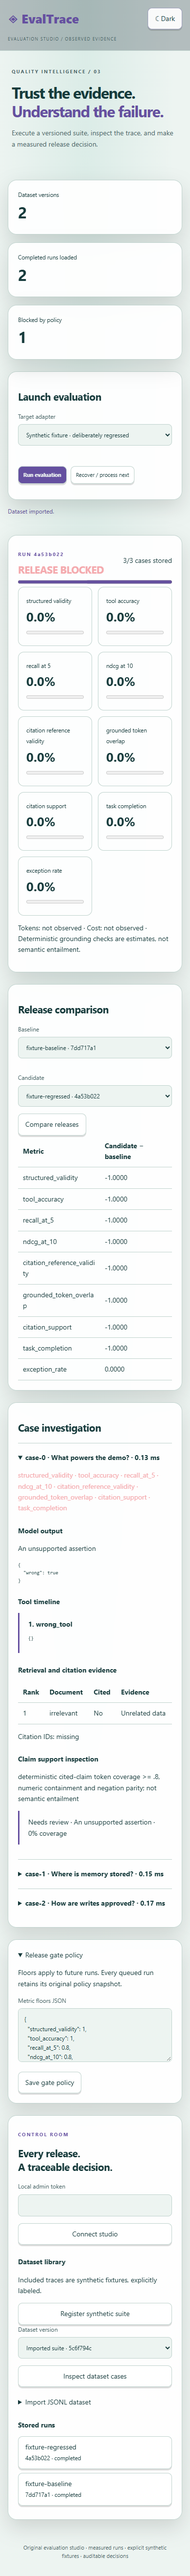
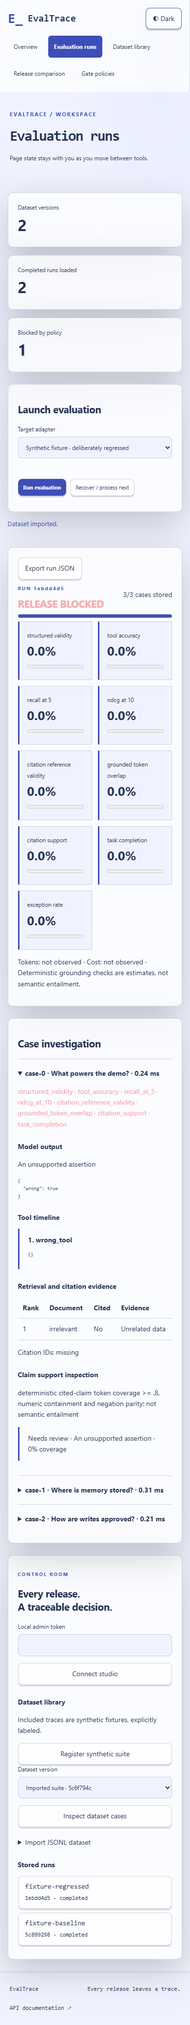
Phase 3: create EvalTrace control room with dedicated evaluation pages

Changed region(s): [[0.0, 0.0, 1.0, 0.9959], [0.9538, 0.0622, 0.9846, 0.0934]]

diff --git a/frontend/src/App.tsx b/frontend/src/App.tsx
@@ -1,13 +1,20 @@
-import {useEffect,useRef,useState} from 'react';import {request} from './api';
-type Dataset={id:string;name:string;version:string};
-type CaseResult={case_id:string;prompt:string;elapsed_ms:number;scores:Record<string,number>;failures:string[];trace:{answer:string;structured:unknown;tools:{name:string;arguments:unknown}[];retrieved:{id:string;text:string}[];citations:string[];exception:string|null};grounding?:{method:string;claims:{claim:string;supported:boolean;best_token_coverage:number}[]}};
-type Run={id:string;status:string;target?:string;scores?:Record<string,number>;gate?:{passed:boolean};cases:CaseResult[];completed_cases:number;total_cases:number;dataset_version?:string;tokens?:number|null;cost?:number|null};
-type RunRow={id:string;status:string;target:string;created_at:string;result:Run};type Comparison={delta:Record<string,number>;candidate_gate:{passed:boolean}};
-export default function App(){const [token,setToken]=useState('');const [datasets,setDatasets]=useState<Dataset[]>([]);const [dataset,setDataset]=useState('');const [target,setTarget]=useState('fixture-baseline');const [runs,setRuns]=useState<RunRow[]>([]);const [current,setCurrent]=useState<Run>();const [baseline,setBaseline]=useState('');const [candidate,setCandidate]=useState('');const [comparison,setComparison]=useState<Comparison>();const [policy,setPolicy]=useState('{}');const [name,setName]=useState('Imported suite');const [content,setContent]=useState('');const [preview,setPreview]=useState<unknown>();const [status,setStatus]=useState('Connect to your evaluation studio.');const [error,setError]=useState('');const [busy,setBusy]=useState(false);const [light,setLight]=useState(false);const last=useRef<()=>Promise<void>>(async()=>{});
-async function act(fn:()=>Promise<void>){last.current=fn;setBusy(true);setError('');try{await fn()}catch(e){setError(e instanceof Error?e.message:'Request failed')}finally{setBusy(false)}}
-async function refresh(){const [ds,rs,gates]=await Promise.all([request<Dataset[]>('/datasets',token),request<RunRow[]>('/runs',token),request<Record<string,number>>('/gates',token)]);setDatasets(ds);setRuns(rs);setPolicy(JSON.stringify(gates,null,2));if(!dataset&&ds[0])setDataset(ds[0].id)}
-async function selectRun(id:string){setCurrent(await request<Run>('/runs/'+id,token))}
-useEffect(()=>{document.documentElement.dataset.theme=light?'light':'dark'},[light]);
-useEffect(()=>{if(!current||current.status==='completed')return;const timer=setInterval(()=>{void request<Run>('/runs/'+current.id,token).then(setCurrent).catch(()=>{})},1000);return()=>clearInterval(timer)},[current?.id,current?.status,token]);
-const complete=runs.filter(r=>r.status==='completed');const blocked=complete.filter(r=>!r.result.gate?.passed).length;
-return <><header className="topbar"><a className="brand" href="/">◈ EvalTrace</a><span className="mode">EVALUATION STUDIO / OBSERVED EVIDENCE</span><button aria-label="Change theme" onClick={()=>setLight(!light)}>{light?'☾ Dark':'☀ Light'}</button></header><div className="studio"><aside className="panel"><p className="eyebrow">CONTROL ROOM</p><h2>Every release.<br/>A traceable decision.</h2><label>Local admin token<input id="token" type="password" value={token} onChange={e=>setToken(e.target.value)} autoComplete="off"/></label><button className="wide" onClick={()=>void act(async()=>{await refresh();setStatus('Connected.')})} disabled={busy}>Connect studio</button><h3>Dataset library</h3><p className="source-notice">Included traces are synthetic fixtures, explicitly labeled.</p><button className="wide" onClick={()=>void act(async()=>{const d=await request<Dataset>('/datasets/seed',token,{});await refresh();setDataset(d.id);setStatus('Synthetic suite registered.')})} disabled={busy}>Register synthetic suite</button><label>Dataset version<select value={dataset} onChange={e=>setDataset(e.target.value)}><option value="">Select a suite</option>{datasets.map(d=><option key={d.id} value={d.id}>{d.name} · {d.version.slice(0,8)}</option>)}</select></label><button className="wide" disabled={busy||!dataset} onClick={()=>void act(async()=>{setPreview(await request('/datasets/'+dataset+'/cases',token));setStatus('Dataset version loaded.')})}>Inspect dataset cases</button><details><summary>Import JSONL dataset</summary><label>Suite name<input value={name} onChange={e=>setName(e.target.value)}/></label><label>JSONL cases<textarea value={content} onChange={e=>setContent(e.target.value)} placeholder="One typed case per line"/></label><button disabled={busy||!content} onClick={()=>void act(async()=>{const d=await request<Dataset>('/datasets/import',token,{name,content});await refresh();setDataset(d.id);setStatus('Dataset imported.')})}>Import dataset</button></details><h3>Stored runs</h3><div className="run-list">{runs.map(r=><button key={r.id} onClick={()=>void act(()=>selectRun(r.id))}>{r.target}<br/><small>{r.id.slice(0,8)} · {r.status}</small></button>)}{!runs.length&&<p className="empty">No runs loaded.</p>}</div></aside><main><section className="hero"><p className="eyebrow">QUALITY INTELLIGENCE / 03</p><h1>Trust the evidence.<br/><em>Understand the failure.</em></h1><p>Execute a versioned suite, inspect the trace, and make a measured release decision.</p></section><div className="run-grid"><div className="panel metric"><small>Dataset versions</small><strong>{datasets.length}</strong></div><div className="panel metric"><small>Completed runs loaded</small><strong>{complete.length}</strong></div><div className="panel metric"><small>Blocked by policy</small><strong>{blocked}</strong></div></div><section className="panel"><h2>Launch evaluation</h2><div className="two-col"><label>Target adapter<select value={target} onChange={e=>setTarget(e.target.value)}><option value="fixture-baseline">Synthetic fixture · baseline</option><option value="fixture-regressed">Synthetic fixture · deliberately regressed</option><option value="local-http">Local HTTP target</option><option value="remote-http">Configured HTTPS target</option><option value="provider">Configured LLM provider</option></select></label><div className="actions"><button className="primary" disabled={busy||!dataset} onClick={()=>void act(async()=>{const q=await request<{id:string}>('/runs/queue',token,{dataset_id:dataset,target});await selectRun(q.id);setStatus('Queued durably. Executing worker…');await request('/workers/step',token,{});await selectRun(q.id);await refresh();setStatus('Evaluation stored. Inspect the release gate below.')})}>Run evaluation</button><button disabled={busy} onClick={()=>void act(async()=>{await request('/workers/step',token,{});await refresh();if(current)await selectRun(current.id);setStatus('Worker step completed.')})}>Recover / process next</button></div></div></section><div id="status" className="status" role="status">{busy&&<span className="spinner"/>}{status}</div>{error&&<div role="alert" className="error"><p>{error}</p><button onClick={()=>void act(last.current)}>Retry</button></div>}{current&&<section className="panel section"><div className="section-head"><div><p className="eyebrow">RUN {current.id.slice(0,8)}</p><h2 className={current.gate?.passed?'gate-pass':'gate-block'}>{current.gate?(current.gate.passed?'GATE PASSED':'RELEASE BLOCKED'):current.status.toUpperCase()}</h2></div><span>{current.completed_cases}/{current.total_cases} cases stored</span></div><progress max={current.total_cases||1} value={current.completed_cases}/><div className="score-grid">{Object.entries(current.scores??{}).map(([key,value])=><div className="score" key={key}><small>{key.replaceAll('_',' ')}</small><strong>{(value*100).toFixed(1)}%</strong><meter min={0} max={1} value={value}/></div>)}</div><p className="source-notice">Tokens: {current.tokens??'not observed'} · Cost: {current.cost??'not observed'} · Deterministic grounding checks are estimates, not semantic entailment.</p></section>}<section className="panel section"><h2>Release comparison</h2><div className="two-col"><label>Baseline<select aria-label="Baseline" value={baseline} onChange={e=>setBaseline(e.target.value)}><option value="">Select baseline</option>{complete.map(r=><option key={r.id} value={r.id}>{r.target} · {r.id.slice(0,8)}</option>)}</select></label><label>Candidate<select aria-label="Candidate" value={candidate} onChange={e=>setCandidate(e.target.value)}><option value="">Select candidate</option>{complete.map(r=><option key={r.id} value={r.id}>{r.target} · {r.id.slice(0,8)}</option>)}</select></label></div><button disabled={busy||!baseline||!candidate} onClick={()=>void act(async()=>{setComparison(await request<Comparison>('/compare',token,{baseline,candidate}));setStatus('Comparison stored.')})}>Compare releases</button>{comparison&&<div className="table-wrap" id="comparison"><table><thead><tr><th>Metric</th><th>Candidate − baseline</th></tr></thead><tbody>{Object.entries(comparison.delta).map(([key,value])=><tr key={key}><td>{key}</td><td>{value.toFixed(4)}</td></tr>)}</tbody></table></div>}</section>{current&&<section className="panel section" id="cases"><h2>Case investigation</h2>{current.cases.map(c=><details className="trace-case" key={c.case_id}><summary>{c.case_id} · {c.prompt} · {c.elapsed_ms.toFixed(2)} ms</summary><p className="gate-block">{c.failures?.join(' · ')||'No metric failures'}</p><h3>Model output</h3><p>{c.trace.answer||'No answer'}</p><pre>{JSON.stringify(c.trace.structured,null,2)}</pre>{c.trace.exception&&<p>Exception type: {c.trace.exception}</p>}<h3>Tool timeline</h3>{c.trace.tools.map((t,i)=><div className="evidence" key={i}><strong>{i+1}. {t.name}</strong><pre>{JSON.stringify(t.arguments,null,2)}</pre></div>)}<h3>Retrieval and citation evidence</h3><div className="table-wrap"><table><thead><tr><th>Rank</th><th>Document</th><th>Cited</th><th>Evidence</th></tr></thead><tbody>{c.trace.retrieved.map((d,i)=><tr key={i}><td>{i+1}</td><td>{d.id}</td><td>{c.trace.citations.includes(d.id)?'Yes':'No'}</td><td>{d.text}</td></tr>)}</tbody></table></div><p>Citation IDs: {c.trace.citations.join(', ')||'none'}</p><h3>Claim support inspection</h3><p className="source-notice">{c.grounding?.method}</p>{c.grounding?.claims.map((claim,i)=><p className="evidence" key={i}>{claim.supported?'Supported by heuristic':'Needs review'} · {claim.claim} · {(claim.best_token_coverage*100).toFixed(0)}% coverage</p>)}</details>)}</section>}<section className="panel section"><details><summary>Release gate policy</summary><p>Floors apply to future runs. Every queued run retains its original policy snapshot.</p><label>Metric floors JSON<textarea value={policy} onChange={e=>setPolicy(e.target.value)}/></label><button disabled={busy} onClick={()=>void act(async()=>{await request('/gates',token,JSON.parse(policy),'PUT');setStatus('Gate policy saved.')})}>Save gate policy</button></details></section>{preview!==undefined&&<section className="panel section"><h2>Immutable dataset cases</h2><pre>{JSON.stringify(preview,null,2)}</pre><button onClick={()=>setPreview(undefined)}>Close dataset preview</button></section>}</main></div><footer>Original evaluation studio · measured runs · explicit synthetic fixtures · auditable decisions</footer></>}
+import {useEffect,useState} from 'react';
+import Workspace from './Workspace';
+
+const routes = [['workspace','Evaluation runs'],['datasets','Dataset library'],['compare','Release comparison'],['policy','Gate policies']] as const;
+function route(){return window.location.hash.replace('#/','') || 'home'}
+export default function App(){
+ const [page,setPage]=useState(route);const [opened,setOpened]=useState(page!=='home');
+ const [light,setLight]=useState(localStorage.getItem('EvalTrace-theme')==='light');
+ useEffect(()=>{const change=()=>{const next=route();setPage(next);if(next!=='home')setOpened(true);window.scrollTo(0,0)};window.addEventListener('hashchange',change);return()=>window.removeEventListener('hashchange',change)},[]);
+ useEffect(()=>{document.documentElement.dataset.theme=light?'light':'dark';localStorage.setItem('EvalTrace-theme',light?'light':'dark')},[light,page,opened]);
+ const valid=page==='home'||routes.some(([id])=>id===page);
+ return <div className="experience" data-page={page}>
+ <a className="skip-link" href="#page-content" onClick={e=>{e.preventDefault();document.getElementById("page-content")?.focus()}}>Skip to content</a>
+ <header className="site-nav"><a className="site-brand" href="#/home"><span>E_</span>EvalTrace</a><nav aria-label="Primary navigation"><a href="#/home" aria-current={page==='home'?'page':undefined}>Overview</a>{routes.map(([id,label])=><a key={id} href={'#/'+id} aria-current={page===id?'page':undefined}>{label}</a>)}</nav><button className="theme-switch" aria-label="Change theme" onClick={()=>setLight(!light)}>{light?'◐ Dark':'◑ Light'}</button></header>
+ <div id="page-content" tabIndex={-1}>
+ {page==='home'&&<main className="landing"><section className="landing-hero"><div className="hero-copy"><p className="landing-kicker">Confidence has a paper trail.</p><h1>Before you ship,<br/>see the evidence.</h1><p className="landing-description">A release control room for agent behavior. Version your test cases, inspect every trace and make quality a visible decision.</p><div className="landing-actions"><a className="launch-button" href="#/workspace">Open control room <span>↗</span></a><a className="text-link" href="#how-it-works" onClick={e=>{e.preventDefault();document.getElementById('how-it-works')?.scrollIntoView({behavior:'smooth'})}}>How it works ↓</a></div></div><div className="trace-art" aria-label="Illustration of an evaluation pipeline"><div className="trace-top"><span>RELEASE PIPELINE</span><span>ILLUSTRATION</span></div><div className="trace-line"><b>01</b><span>Dataset contract</span><i>VERSIONED</i></div><div className="trace-line"><b>02</b><span>Observed trace</span><i>RECORDED</i></div><div className="trace-line"><b>03</b><span>Quality decision</span><i>INSPECTABLE</i></div><p>Passing execution ≠ passing quality.</p></div></section><section className="landing-path" id="how-it-works"><div className="section-intro"><p className="landing-kicker">DESIGNED AROUND YOUR WORKFLOW</p><h2>From a test case<br/>to a release decision.</h2></div><div className="journey-grid"><a className="journey-card" href="#/datasets"><span>DATA</span><h3>Define the contract</h3><p>Version typed cases and inspect their evidence.</p><b aria-hidden="true">↗</b></a><a className="journey-card" href="#/workspace"><span>RUN</span><h3>Observe the behavior</h3><p>Execute targets and investigate failed cases.</p><b aria-hidden="true">↗</b></a><a className="journey-card" href="#/compare"><span>GATE</span><h3>Make the release decision</h3><p>Compare candidates against a stored baseline.</p><b aria-hidden="true">↗</b></a></div></section><section className="honest-note"><span>Built on evidence</span><p>Explore working tools, inspect the results, and keep the limits visible. Demo data is labeled. No invented activity or production scores.</p><a href="/docs">Explore the API ↗</a></section></main>}
+ {!valid&&<section className="landing"><h1>Page not found</h1><a href="#/home">Return to overview</a></section>}
+ {opened&&<div className="product-surface" hidden={page==='home'||!valid}><div className="page-heading"><p className="landing-kicker">EvalTrace / WORKSPACE</p><h1>{routes.find(([id])=>id===page)?.[1]}</h1><p>Page state stays with you as you move between tools.</p></div><Workspace/></div>}
+ </div><footer className="site-footer"><a href="#/home">EvalTrace</a><span>Every release leaves a trace.</span><a href="/docs">API documentation ↗</a></footer></div>
+}

diff --git a/frontend/src/Workspace.tsx b/frontend/src/Workspace.tsx
@@ -1,0 +1,13 @@
+import {useEffect,useRef,useState} from 'react';import {request} from './api';
+type Dataset={id:string;name:string;version:string};
+type CaseResult={case_id:string;prompt:string;elapsed_ms:number;scores:Record<string,number>;failures:string[];trace:{answer:string;structured:unknown;tools:{name:string;arguments:unknown}[];retrieved:{id:string;text:string}[];citations:string[];exception:string|null};grounding?:{method:string;claims:{claim:string;supported:boolean;best_token_coverage:number}[]}};
+type Run={id:string;status:string;target?:string;scores?:Record<string,number>;gate?:{passed:boolean};cases:CaseResult[];completed_cases:number;total_cases:number;dataset_version?:string;tokens?:number|null;cost?:number|null};
+type RunRow={id:string;status:string;target:string;created_at:string;result:Run};type Comparison={delta:Record<string,number>;candidate_gate:{passed:boolean}};
+export default function Workspace(){const [token,setToken]=useState('');const [datasets,setDatasets]=useState<Dataset[]>([]);const [dataset,setDataset]=useState('');const [target,setTarget]=useState('fixture-baseline');const [runs,setRuns]=useState<RunRow[]>([]);const [current,setCurrent]=useState<Run>();const [baseline,setBaseline]=useState('');const [candidate,setCandidate]=useState('');const [comparison,setComparison]=useState<Comparison>();const [policy,setPolicy]=useState('{}');const [name,setName]=useState('Imported suite');const [content,setContent]=useState('');const [preview,setPreview]=useState<unknown>();const [status,setStatus]=useState('Connect to your evaluation studio.');const [error,setError]=useState('');const [busy,setBusy]=useState(false);const [light,setLight]=useState(false);const last=useRef<()=>Promise<void>>(async()=>{});
+async function act(fn:()=>Promise<void>){last.current=fn;setBusy(true);setError('');try{await fn()}catch(e){setError(e instanceof Error?e.message:'Request failed')}finally{setBusy(false)}}
+async function refresh(){const [ds,rs,gates]=await Promise.all([request<Dataset[]>('/datasets',token),request<RunRow[]>('/runs',token),request<Record<string,number>>('/gates',token)]);setDatasets(ds);setRuns(rs);setPolicy(JSON.stringify(gates,null,2));if(!dataset&&ds[0])setDataset(ds[0].id)}
+async function selectRun(id:string){setCurrent(await request<Run>('/runs/'+id,token))}
+useEffect(()=>{document.documentElement.dataset.theme=light?'light':'dark'},[light]);
+useEffect(()=>{if(!current||current.status==='completed')return;const timer=setInterval(()=>{void request<Run>('/runs/'+current.id,token).then(setCurrent).catch(()=>{})},1000);return()=>clearInterval(timer)},[current?.id,current?.status,token]);
+const complete=runs.filter(r=>r.status==='completed');const blocked=complete.filter(r=>!r.result.gate?.passed).length;
+return <><header className="topbar"><a className="brand" href="/">◈ EvalTrace</a><span className="mode">EVALUATION STUDIO / OBSERVED EVIDENCE</span><button aria-label="Change theme" onClick={()=>setLight(!light)}>{light?'☾ Dark':'☀ Light'}</button></header><div className="studio"><aside className="panel"><p className="eyebrow">CONTROL ROOM</p><h2>Every release.<br/>A traceable decision.</h2><label>Local admin token<input id="token" type="password" value={token} onChange={e=>setToken(e.target.value)} autoComplete="off"/></label><button className="wide" onClick={()=>void act(async()=>{await refresh();setStatus('Connected.')})} disabled={busy}>Connect studio</button><div className="dataset-controls"><h3>Dataset library</h3><p className="source-notice">Included traces are synthetic fixtures, explicitly labeled.</p><button className="wide" onClick={()=>void act(async()=>{const d=await request<Dataset>('/datasets/seed',token,{});await refresh();setDataset(d.id);setStatus('Synthetic suite registered.')})} disabled={busy}>Register synthetic suite</button><label>Dataset version<select value={dataset} onChange={e=>setDataset(e.target.value)}><option value="">Select a suite</option>{datasets.map(d=><option key={d.id} value={d.id}>{d.name} · {d.version.slice(0,8)}</option>)}</select></label><button className="wide" disabled={busy||!dataset} onClick={()=>void act(async()=>{setPreview(await request('/datasets/'+dataset+'/cases',token));setStatus('Dataset version loaded.')})}>Inspect dataset cases</button><details><summary>Import JSONL dataset</summary><label>Suite name<input value={name} onChange={e=>setName(e.target.value)}/></label><label>JSONL cases<textarea value={content} onChange={e=>setContent(e.target.value)} placeholder="One typed case per line"/></label><button disabled={busy||!content} onClick={()=>void act(async()=>{const d=await request<Dataset>('/datasets/import',token,{name,content});await refresh();setDataset(d.id);setStatus('Dataset imported.')})}>Import dataset</button></details></div><h3>Stored runs</h3><div className="run-list">{runs.map(r=><button key={r.id} onClick={()=>void act(()=>selectRun(r.id))}>{r.target}<br/><small>{r.id.slice(0,8)} · {r.status}</small></button>)}{!runs.length&&<p className="empty">No runs loaded.</p>}</div></aside><main><section className="panel dataset-guide"><p className="eyebrow">VERSIONED EVIDENCE</p><h2>A test suite is a contract.</h2><p>Register the sample suite or import your own JSONL cases from the library controls. Each dataset retains its content hash, so comparisons refer to the same evidence.</p><ol><li>Choose or import a dataset.</li><li>Inspect its typed cases and expected output schema.</li><li>Open Evaluation runs to execute a target.</li></ol><a href="#/workspace">Launch an evaluation →</a></section><section className="hero"><p className="eyebrow">QUALITY INTELLIGENCE / 03</p><h1>Trust the evidence.<br/><em>Understand the failure.</em></h1><p>Execute a versioned suite, inspect the trace, and make a measured release decision.</p></section><div className="run-grid"><div className="panel metric"><small>Dataset versions</small><strong>{datasets.length}</strong></div><div className="panel metric"><small>Completed runs loaded</small><strong>{complete.length}</strong></div><div className="panel metric"><small>Blocked by policy</small><strong>{blocked}</strong></div></div><section className="panel run-controls"><h2>Launch evaluation</h2><div className="two-col"><label>Target adapter<select value={target} onChange={e=>setTarget(e.target.value)}><option value="fixture-baseline">Synthetic fixture · baseline</option><option value="fixture-regressed">Synthetic fixture · deliberately regressed</option><option value="local-http">Local HTTP target</option><option value="remote-http">Configured HTTPS target</option><option value="provider">Configured LLM provider</option></select></label><div className="actions"><button className="primary" disabled={busy||!dataset} onClick={()=>void act(async()=>{const q=await request<{id:string}>('/runs/queue',token,{dataset_id:dataset,target});await selectRun(q.id);setStatus('Queued durably. Executing worker…');await request('/workers/step',token,{});await selectRun(q.id);await refresh();setStatus('Evaluation stored. Inspect the release gate below.')})}>Run evaluation</button><button disabled={busy} onClick={()=>void act(async()=>{await request('/workers/step',token,{});await refresh();if(current)await selectRun(current.id);setStatus('Worker step completed.')})}>Recover / process next</button></div></div></section><div id="status" className="status" role="status">{busy&&<span className="spinner"/>}{status}</div>{error&&<div role="alert" className="error"><p>{error}</p><button onClick={()=>void act(last.current)}>Retry</button></div>}{current&&<section className="panel section run-score"><button disabled={busy} onClick={()=>{const url=URL.createObjectURL(new Blob([JSON.stringify(current,null,2)],{type:"application/json"}));const a=document.createElement("a");a.href=url;a.download="evaltrace-run.json";a.click();URL.revokeObjectURL(url)}}>Export run JSON</button><div className="section-head"><div><p className="eyebrow">RUN {current.id.slice(0,8)}</p><h2 className={current.gate?.passed?'gate-pass':'gate-block'}>{current.gate?(current.gate.passed?'GATE PASSED':'RELEASE BLOCKED'):current.status.toUpperCase()}</h2></div><span>{current.completed_cases}/{current.total_cases} cases stored</span></div><progress max={current.total_cases||1} value={current.completed_cases}/><div className="score-grid">{Object.entries(current.scores??{}).map(([key,value])=><div className="score" key={key}><small>{key.replaceAll('_',' ')}</small><strong>{(value*100).toFixed(1)}%</strong><meter min={0} max={1} value={value}/></div>)}</div><p className="source-notice">Tokens: {current.tokens??'not observed'} · Cost: {current.cost??'not observed'} · Deterministic grounding checks are estimates, not semantic entailment.</p></section>}<section className="panel section release-compare"><h2>Release comparison</h2><div className="two-col"><label>Baseline<select aria-label="Baseline" value={baseline} onChange={e=>setBaseline(e.target.value)}><option value="">Select baseline</option>{complete.map(r=><option key={r.id} value={r.id}>{r.target} · {r.id.slice(0,8)}</option>)}</select></label><label>Candidate<select aria-label="Candidate" value={candidate} onChange={e=>setCandidate(e.target.value)}><option value="">Select candidate</option>{complete.map(r=><option key={r.id} value={r.id}>{r.target} · {r.id.slice(0,8)}</option>)}</select></label></div><button disabled={busy||!baseline||!candidate} onClick={()=>void act(async()=>{setComparison(await request<Comparison>('/compare',token,{baseline,candidate}));setStatus('Comparison stored.')})}>Compare releases</button>{comparison&&<div className="table-wrap" id="comparison"><table><thead><tr><th>Metric</th><th>Candidate − baseline</th></tr></thead><tbody>{Object.entries(comparison.delta).map(([key,value])=><tr key={key}><td>{key}</td><td>{value.toFixed(4)}</td></tr>)}</tbody></table></div>}</section>{current&&<section className="panel section" id="cases"><h2>Case investigation</h2>{current.cases.map(c=><details className="trace-case" key={c.case_id}><summary>{c.case_id} · {c.prompt} · {c.elapsed_ms.toFixed(2)} ms</summary><p className="gate-block">{c.failures?.join(' · ')||'No metric failures'}</p><h3>Model output</h3><p>{c.trace.answer||'No answer'}</p><pre>{JSON.stringify(c.trace.structured,null,2)}</pre>{c.trace.exception&&<p>Exception type: {c.trace.exception}</p>}<h3>Tool timeline</h3>{c.trace.tools.map((t,i)=><div className="evidence" key={i}><strong>{i+1}. {t.name}</strong><pre>{JSON.stringify(t.arguments,null,2)}</pre></div>)}<h3>Retrieval and citation evidence</h3><div className="table-wrap"><table><thead><tr><th>Rank</th><th>Document</th><th>Cited</th><th>Evidence</th></tr></thead><tbody>{c.trace.retrieved.map((d,i)=><tr key={i}><td>{i+1}</td><td>{d.id}</td><td>{c.trace.citations.includes(d.id)?'Yes':'No'}</td><td>{d.text}</td></tr>)}</tbody></table></div><p>Citation IDs: {c.trace.citations.join(', ')||'none'}</p><h3>Claim support inspection</h3><p className="source-notice">{c.grounding?.method}</p>{c.grounding?.claims.map((claim,i)=><p className="evidence" key={i}>{claim.supported?'Supported by heuristic':'Needs review'} · {claim.claim} · {(claim.best_token_coverage*100).toFixed(0)}% coverage</p>)}</details>)}</section>}<section className="panel section gate-policy"><details><summary>Release gate policy</summary><p>Floors apply to future runs. Every queued run retains its original policy snapshot.</p><label>Metric floors JSON<textarea value={policy} onChange={e=>setPolicy(e.target.value)}/></label><button disabled={busy} onClick={()=>void act(async()=>{await request('/gates',token,JSON.parse(policy),'PUT');setStatus('Gate policy saved.')})}>Save gate policy</button></details></section>{preview!==undefined&&<section className="panel section"><h2>Immutable dataset cases</h2><pre>{JSON.stringify(preview,null,2)}</pre><button onClick={()=>setPreview(undefined)}>Close dataset preview</button></section>}</main></div><footer>Original evaluation studio · measured runs · explicit synthetic fixtures · auditable decisions</footer></>}

diff --git a/frontend/src/experience.css b/frontend/src/experience.css
@@ -1,0 +1,13 @@
+/* Original multi-page visual direction; production workflows remain in Workspace. */
+:root{--bg:#10162a;--panel:#242d50b3;--ink:#f0f3ff;--muted:#b5c0dd;--accent:#c4d1ff;--line:rgba(196,209,255,.24);--shadow:0 24px 70px #0003;color-scheme:dark}
+html[data-theme=light]{--bg:#f0f3ff;--panel:#ffffffb8;--ink:#243454;--muted:#243454;--accent:#3e4eb8;--line:#8c96aa66;color-scheme:light}
+body,html[data-theme=light] body{background:var(--bg);color:var(--ink)}body:before{content:'';position:fixed;inset:0;z-index:-1;pointer-events:none;background:radial-gradient(ellipse at 85% 12%,rgba(196,209,255,.18),transparent 42%),radial-gradient(ellipse at 0 75%,rgba(196,209,255,.09),transparent 40%)}
+.site-nav{position:sticky;top:0;z-index:5;display:flex;align-items:center;gap:28px;padding:18px 4vw;background:var(--panel);backdrop-filter:blur(24px);border-bottom:1px solid var(--line)}.site-brand{display:flex;align-items:center;gap:10px;text-decoration:none;font-weight:800;font-size:22px;white-space:nowrap}.site-brand>span{color:var(--accent);font-size:28px}.site-nav nav{display:flex;gap:5px;flex:1;justify-content:center;flex-wrap:wrap}.site-nav nav a{font-size:12px;text-decoration:none;padding:9px 12px;border-radius:30px;color:var(--muted)}.site-nav nav a[aria-current=page]{background:var(--accent);color:var(--bg);font-weight:700}.theme-switch{white-space:nowrap}.skip-link{position:absolute;left:10px;top:-100px;z-index:20;background:var(--bg);padding:14px}.skip-link:focus{top:10px}
+.landing{max-width:1440px;margin:auto;padding:0 5vw}.landing-hero{min-height:650px;display:grid;grid-template-columns:1.15fr 1fr;align-items:center;gap:5vw;padding:65px 0 85px}.landing-kicker{font-size:11px;letter-spacing:2px;text-transform:uppercase;color:var(--accent);font-weight:700}.landing h1{font-size:clamp(42px,5.7vw,83px);letter-spacing:-3px;line-height:1.04;margin:25px 0}.landing-description{max-width:510px;font-size:18px;color:var(--muted);line-height:1.8}.landing-actions{display:flex;gap:25px;align-items:center;flex-wrap:wrap;margin-top:35px}.launch-button{padding:17px 24px;border-radius:40px;background:var(--accent);color:var(--bg);font-weight:750;text-decoration:none;box-shadow:inset 0 2px #fff5,0 12px 30px #0002;display:flex;gap:24px;align-items:center}.text-link{font-size:13px;text-underline-offset:6px}.landing-path{padding:65px 0;border-top:1px solid var(--line);scroll-margin-top:100px}.section-intro h2{font-size:36px;line-height:1.2;letter-spacing:-1px}.journey-grid{display:grid;grid-template-columns:repeat(3,1fr);gap:20px;margin:35px 0}.journey-card{position:relative;display:block;text-decoration:none;padding:30px;border:1px solid var(--line);background:var(--panel);backdrop-filter:blur(22px);border-radius:25px;box-shadow:var(--shadow),inset 0 1px #fff2;transition:transform .2s}.journey-card:hover{transform:translateY(-5px)}.journey-card>span{font:12px ui-monospace,monospace;color:var(--accent)}.journey-card h3{font-size:22px;margin:30px 0 12px}.journey-card p{color:var(--muted);max-width:260px}.journey-card b{position:absolute;right:25px;top:25px;font-size:23px}.honest-note{display:flex;align-items:center;gap:40px;border-top:1px solid var(--line);padding:40px 0 65px}.honest-note>span{font-size:12px;color:var(--accent);white-space:nowrap}.honest-note p{color:var(--muted);max-width:650px}.honest-note a{white-space:nowrap;font-size:12px}.site-footer{display:flex;justify-content:space-between;gap:20px;border-top:1px solid var(--line);padding:25px 5vw;font-size:12px}.site-footer a{text-decoration:none}.page-heading{padding:35px 4vw 0}.page-heading h1{font-size:38px;letter-spacing:-1.5px;margin:10px 0}.page-heading>p:last-child{color:var(--muted);font-size:12px}.product-surface .topbar,.product-surface footer,.product-surface .hero{display:none}.product-surface .panel{background:var(--panel);backdrop-filter:blur(22px);border-color:var(--line);box-shadow:var(--shadow),inset 0 1px #fff1}.product-surface input,.product-surface textarea,.product-surface select{background:var(--bg)}.product-surface .primary{color:var(--bg)}.product-surface[hidden]{display:none}.product-surface .status{font-size:13px}.product-surface .overlay{z-index:10}.page-tools{display:flex;gap:12px;flex-wrap:wrap;margin:15px 0}.page-tools a{border:1px solid var(--line);border-radius:12px;padding:10px 16px;text-decoration:none}
+@media(max-width:900px){.site-nav{flex-wrap:wrap;gap:12px}.site-nav nav{order:3;flex-basis:100%;justify-content:flex-start}.theme-switch{margin-left:auto}.landing-hero{grid-template-columns:1fr;padding:45px 0;gap:35px}.landing h1{letter-spacing:-2px}.journey-grid{grid-template-columns:1fr}.honest-note{display:block}.site-footer{flex-wrap:wrap}.page-heading{padding:25px 20px 0}}
+@media(prefers-reduced-motion:reduce){*{scroll-behavior:auto!important;animation:none!important;transition:none!important}}
+
+.site-nav{align-items:flex-start}.site-brand{font-family:ui-monospace,monospace}.landing-hero{grid-template-columns:1fr;padding:65px 0 50px;min-height:auto}.hero-copy{max-width:850px}.landing h1{font-size:clamp(44px,6vw,88px);font-weight:750}.landing-description{max-width:650px}.trace-art{margin-top:20px;max-width:100%;border:1px solid var(--line);border-radius:20px;background:linear-gradient(120deg,var(--panel),transparent);backdrop-filter:blur(30px);padding:30px;box-shadow:var(--shadow)}.trace-top{display:flex;justify-content:space-between;font:10px ui-monospace,monospace;color:var(--accent);letter-spacing:2px}.trace-line{display:inline-flex;align-items:center;gap:16px;width:33.33%;padding:35px 15px 20px 0}.trace-line b{font:26px ui-monospace,monospace;color:var(--accent)}.trace-line span{font-size:16px}.trace-line i{font:8px ui-monospace,monospace;border:1px solid var(--line);padding:5px;border-radius:3px}.trace-art p{font:12px ui-monospace,monospace;color:var(--muted);border-top:1px solid var(--line);padding-top:20px}.journey-grid{gap:0;border:1px solid var(--line);border-radius:20px;overflow:hidden}.journey-card{border-radius:0;box-shadow:none}.studio{grid-template-columns:300px minmax(0,1fr);max-width:1600px;padding:25px 4vw;gap:35px}.studio .panel{border-radius:10px}.score-grid{grid-template-columns:repeat(3,1fr)}.score{border-left:3px solid var(--accent);border-radius:0;background:var(--bg)}.run-list button{text-align:left;font-family:ui-monospace,monospace}.experience[data-page=datasets] .run-controls,.experience[data-page=datasets] .run-score,.experience[data-page=datasets] .release-compare,.experience[data-page=datasets] #cases,.experience[data-page=datasets] .gate-policy,.experience[data-page=datasets] .run-grid{display:none}.experience[data-page=compare] .run-controls,.experience[data-page=compare] .run-score,.experience[data-page=compare] #cases,.experience[data-page=compare] .gate-policy,.experience[data-page=compare] .dataset-controls{display:none}.experience[data-page=policy] .run-controls,.experience[data-page=policy] .run-score,.experience[data-page=policy] #cases,.experience[data-page=policy] .release-compare,.experience[data-page=policy] .dataset-controls,.experience[data-page=policy] .run-grid{display:none}.experience[data-page=workspace] .gate-policy,.experience[data-page=workspace] .release-compare{display:none}
+@media(max-width:1000px){.trace-line{display:flex;width:100%;padding:20px 0}.studio{grid-template-columns:1fr}.score-grid{grid-template-columns:repeat(2,1fr)}}
+
+.experience{padding-left:215px}.site-nav{position:fixed;inset:0 auto 0 0;width:215px;flex-direction:column;padding:28px 18px;border-right:1px solid var(--line);border-bottom:0;gap:35px}.site-nav nav{flex-direction:column;justify-content:flex-start;flex-wrap:nowrap;width:100%;gap:10px}.site-nav nav a{border-radius:6px;padding:13px 12px}.theme-switch{margin-top:auto}.site-brand{font-size:20px}.site-footer{font-family:ui-monospace,monospace}.dataset-guide{display:none}.experience[data-page=datasets] .dataset-guide{display:block}.studio{grid-template-columns:260px minmax(0,1fr);gap:24px}.studio>main{min-width:0}.page-heading h1{font-family:ui-monospace,monospace;font-size:30px}.landing-path .section-intro{max-width:700px}.journey-card h3{font-family:ui-monospace,monospace}@media(max-width:1100px){.studio{grid-template-columns:1fr}.score-grid{grid-template-columns:repeat(2,1fr)}.trace-line{display:flex;width:100%}}@media(max-width:760px){.experience{padding-left:0}.site-nav{position:sticky;inset:auto;width:100%;flex-direction:row;flex-wrap:wrap;gap:12px;padding:16px}.site-nav nav{flex-direction:row;flex-wrap:wrap;order:3;flex-basis:100%}.theme-switch{margin-top:0}.landing h1{font-size:44px}.trace-line{flex-wrap:wrap}.score-grid{grid-template-columns:1fr 1fr}}

diff --git a/frontend/src/main.tsx b/frontend/src/main.tsx
@@ -1,1 +1,1 @@
-import {createRoot} from 'react-dom/client';import App from './App';import './style.css';createRoot(document.getElementById('root')!).render(<App/>);
+import {createRoot} from 'react-dom/client';import App from './App';import './style.css';import './experience.css';createRoot(document.getElementById('root')!).render(<App/>);

diff --git a/tests/browser_journey.py b/tests/browser_journey.py
@@ -62,6 +62,9 @@ with (
                         raise AssertionError("Test API exited")
                     time.sleep(0.5)
                 page.goto(base, wait_until="networkidle")
+                expect(page.get_by_role("heading", name="Before you ship, see the evidence.")).to_be_visible()
+                page.screenshot(path=str(assets / "landing.png"), full_page=True)
+                page.get_by_role("link", name="Open control room", exact=False).click()
                 page.get_by_role("button", name="Connect studio").click()
                 expect(page.get_by_role("alert")).to_contain_text("Invalid admin token")
                 page.locator("#token").fill(token)
@@ -87,16 +90,23 @@ with (
                 candidate = next(
                     x["id"] for x in rows if x["target"] == "fixture-regressed"
                 )
+                page.get_by_role("link", name="Release comparison", exact=True).click()
                 page.get_by_label("Baseline", exact=True).select_option(baseline)
                 page.get_by_label("Candidate", exact=True).select_option(candidate)
                 page.get_by_role("button", name="Compare releases").click()
                 expect(page.locator("#comparison")).to_contain_text("-1.0000")
+                page.get_by_role("link", name="Evaluation runs", exact=True).click()
+                with page.expect_download() as download:
+                    page.get_by_role("button", name="Export run JSON").click()
+                assert download.value.suggested_filename == "evaltrace-run.json"
                 page.locator("#cases summary").first.click()
                 expect(page.locator("#cases")).to_contain_text("wrong_tool")
                 expect(page.locator("#cases")).to_contain_text("Needs review")
+                page.get_by_role("link", name="Gate policies", exact=True).click()
                 page.get_by_text("Release gate policy", exact=True).click()
                 page.get_by_role("button", name="Save gate policy").click()
                 expect(page.locator("#status")).to_contain_text("policy saved")
+                page.get_by_role("link", name="Dataset library", exact=True).click()
                 page.get_by_text("Import JSONL dataset", exact=True).click()
                 page.get_by_label("JSONL cases").fill("not-json")
                 page.get_by_role("button", name="Import dataset", exact=True).click()
@@ -108,6 +118,7 @@ with (
                 expect(page.locator("#status")).to_contain_text("Dataset imported")
                 page.get_by_label("JSONL cases").fill("")
                 page.get_by_text("Import JSONL dataset", exact=True).click()
+                page.get_by_role("link", name="Evaluation runs", exact=True).click()
                 page.locator("#token").fill("")
                 page.screenshot(path=str(assets / "desktop.png"), full_page=True)
                 page.get_by_role("button", name="Change theme").click()

diff --git a/README.md b/README.md
@@ -8,6 +8,12 @@
 
 EvalTrace is an evaluation studio for immutable datasets, typed traces and reproducible release decisions. PostgreSQL stores durable jobs and per-case checkpoints, while the interface exposes model outputs, tool calls, retrieval evidence, metric scores and baseline/candidate regressions.
 
+## Interface redesign
+
+An indigo glass control room with a persistent side rail, a dedicated landing page, Evaluation runs, Dataset library, Release comparison, and Gate policies. Export observed run results as JSON without changing their scores.
+
+![New EvalTrace landing page](docs/assets/landing.png)
+
 ## Production preview
 
 ![EvalTrace running on Vercel](docs/assets/production-desktop.png)
